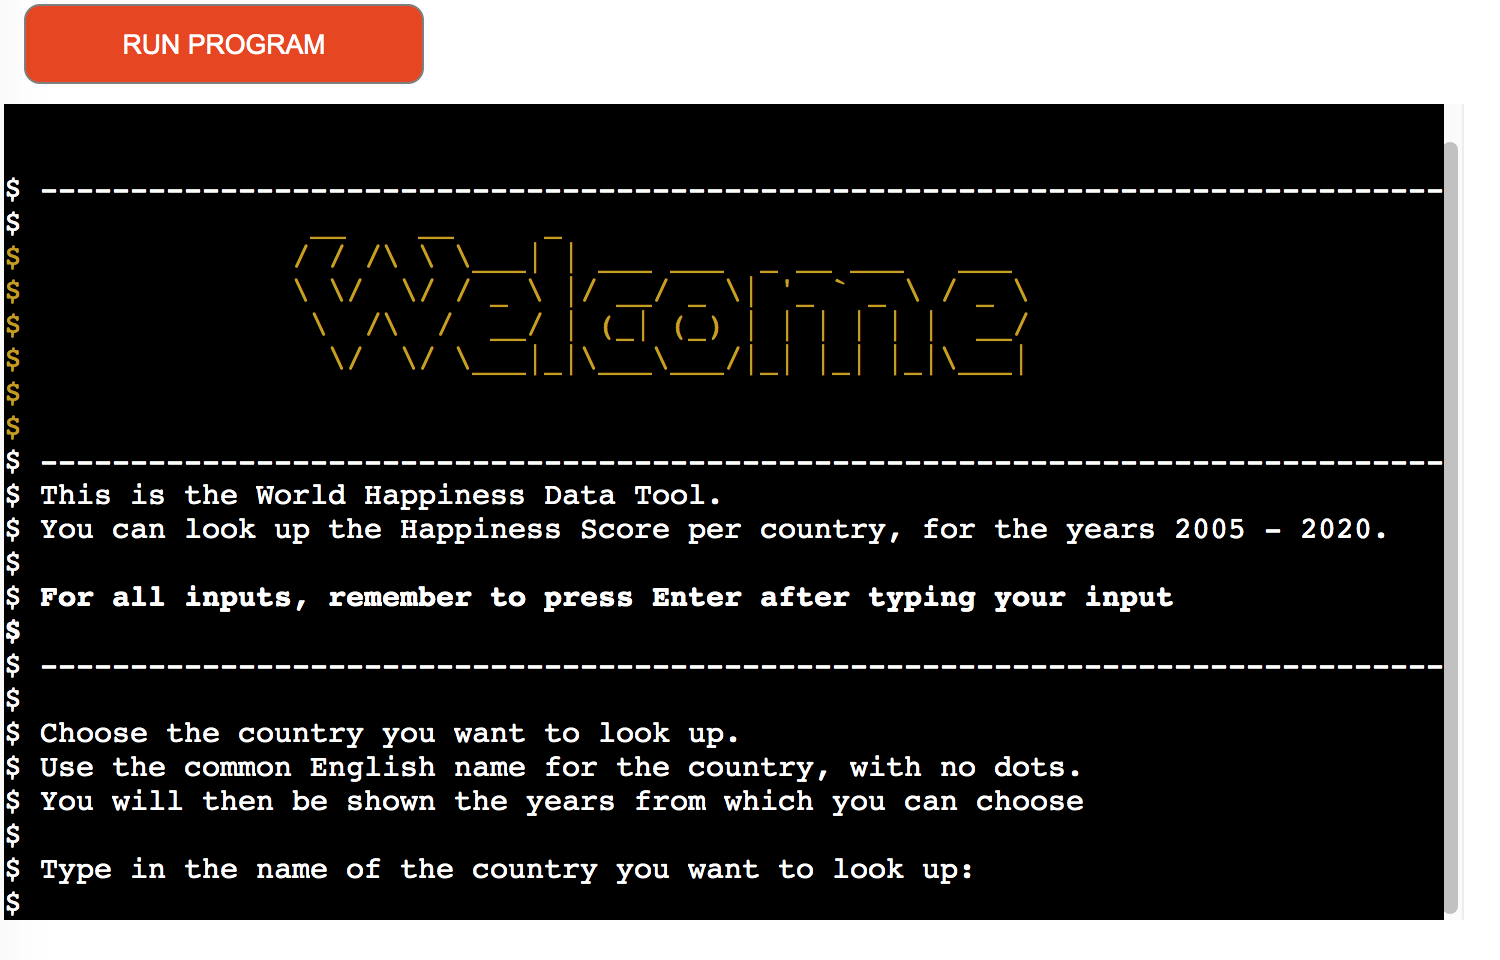
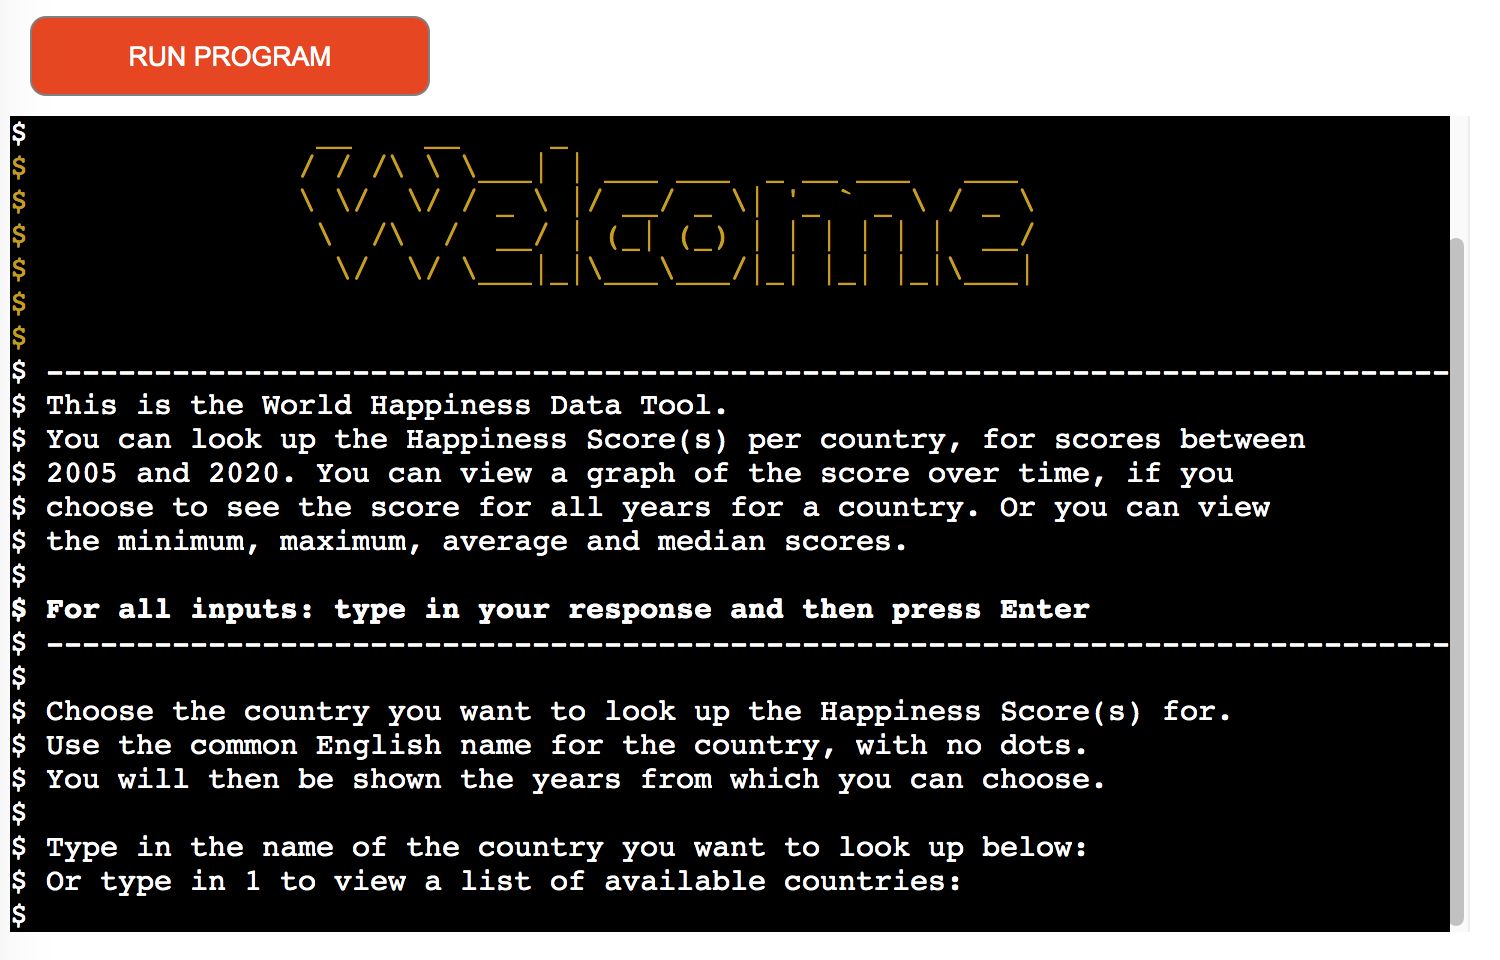
docs: update user stories 1,2 with revised screenprints, add user story 8, in Testing Section, README.md

Changed region(s): [[0.0, 0.0, 0.9813, 0.9688], [0.2453, 0.3125, 0.276, 0.3438]]

diff --git a/README.md b/README.md
@@ -157,17 +157,25 @@ This section covers testing the user stories from the [User Experience (UX)](#us
 
 1. **Expectation:** *As a visiting user, I want to understand what data I can access from the application so that I know what information I can get from it*
 >**Result:** Pass
-- When the application starts, there is a short intro text explaining that the tool allows you to look up the happiness score for a country, and the years covered. In the paragraph below this, the user is also told that they will see the years available for that country once they choose a country. 
+- When the application starts, there is a short intro text explaining that:
+    - the tool allows you to look up the happiness score for a country and the years covered, 
+    - they can view a graph of the score and 
+    - they can view the minimum, maximum, median and average happiness scores for a country
+
+In the paragraph below this, the user is also told that they will see the years available for that country once they choose a country. 
 ![user story 1 - intro text](docs/user-stories/user-story-1-intro-text.png)
+
 2. **Expectation:** *As a visiting user, I want to be able to choose a country so that I can view the data related to that country*
 >**Result:** Pass
 - The user can type in the name of the country that they want to view the score(s) for. After the country name has been validated as a country that exists in the dataset, the application prints back to the user the name they entered, along with the name of the country from the file, so that it is clear to the user which country results are being shown for. (In some cases, the user may type in an 'alternative' name for a country, e.g. 'us' for 'United States' so this message is to ensure clarity)
 ![user story 2 - choose country](docs/user-stories/user-story-2-choose-country.png)
+
 3. **Expectation:** *As a visiting user, I want to see the happiness score for a particular year (from those available) for my selected country*
 >**Result:** Pass
 - The application presents a list of the years available for the chosen country. The user then types in the specific year that they want to see the happiness score for.
 - They can then select number 2 from the next menu shown, to view the score from a different year (or 1 from that menu to see the score for all years)
 ![user story 3 - happiness score for particular year](docs/user-stories/user-story-3-specific-year.png)
+
 4. **Expectation:** *As a visiting user, I want to be able to see the happiness score over time for a particular country, so that I can see the scores and trends over time for that country*
 >**Result:** Pass
 - The application presents a list of the years available for the chosen country, as shown in the user story 3 screenprint. The user is instructed to enter A if they want to view the happiness score for all of these years, instead of just a single year. The scores are then displayed as shown below, "year : score" for each available year.
@@ -181,6 +189,7 @@ This section covers testing the user stories from the [User Experience (UX)](#us
 ![user story 5 - graph](docs/user-stories/user-story-5-graph.png)
 - The graph remains on the screen until the user enters something in the next input box, they are then shown the next options as shown below
 ![user story 5 - graph next options](docs/user-stories/user-story-5-graph-continue.png)
+
 6. **Expectation:** *As a visiting user, I want to be able to see the maximum, minimum, average and median happiness score for my selected country.*
 >**Result:** Pass
 - The user is given the option to choose to view more data (minimum, maximum, median and average scores) in the menu after they have viewed the graph as shown in user story 5, (or they are shown this straight away if they chose "n" for the graph question), and also in the menu choice after they view the score for a particular year, as shown in user story 3.
@@ -188,6 +197,7 @@ This section covers testing the user stories from the [User Experience (UX)](#us
 ![user story 6 - menu options for min, max, median, average scores](docs/user-stories/user-story-6-more-data-menu.png)
 - The user can select number 5 which will display the minimum, maximum, median and average scores for the chosen country:
 ![user story 6 - display min, max, median and average scores](docs/user-stories/user-story-6-more-data-all.png)
+
 7. **Expectation:** *As a visting user, I want to be able to select one option at a time from: maximum, minimum, average and median happiness score for my selected country.*
 >**Result:** Pass
 - The user is given the option to choose to view more data (minimum, maximum, median and average scores), as explained above in user story 6. 
@@ -201,6 +211,13 @@ This section covers testing the user stories from the [User Experience (UX)](#us
 ![user story 7 - median score choice](docs/user-stories/user-story-7-median.png)
 - Average score displayed:
 ![user story 7 - average score choice](docs/user-stories/user-story-7-average.png)
+
+8. **Expectation:** *As a visiting user, I want to see the list of available countries so that I can ensure to choose a country from the list.*
+>**Result:** Pass
+- As shown in user story 1, the user is given the option to view a list of the available countries by inputting '1' instead of inputting a country name. If they choose this option, then the list of countries is displayed in the terminal with a reminder to the user to scroll up/down as needed (due to the length of the list). 
+- The user can then enter the chosen country name in the input at the bottom of the terminal window as shown below:
+![user story 8 - country list from top](docs/user-stories/user-story-8-country-list-top.png)
+![user story 8 - country list bottom of window](docs/user-stories/user-story-8-country-list-bottom.png)
 
 ### Fixed Bugs
 The following bugs were encountered during development and during testing.
